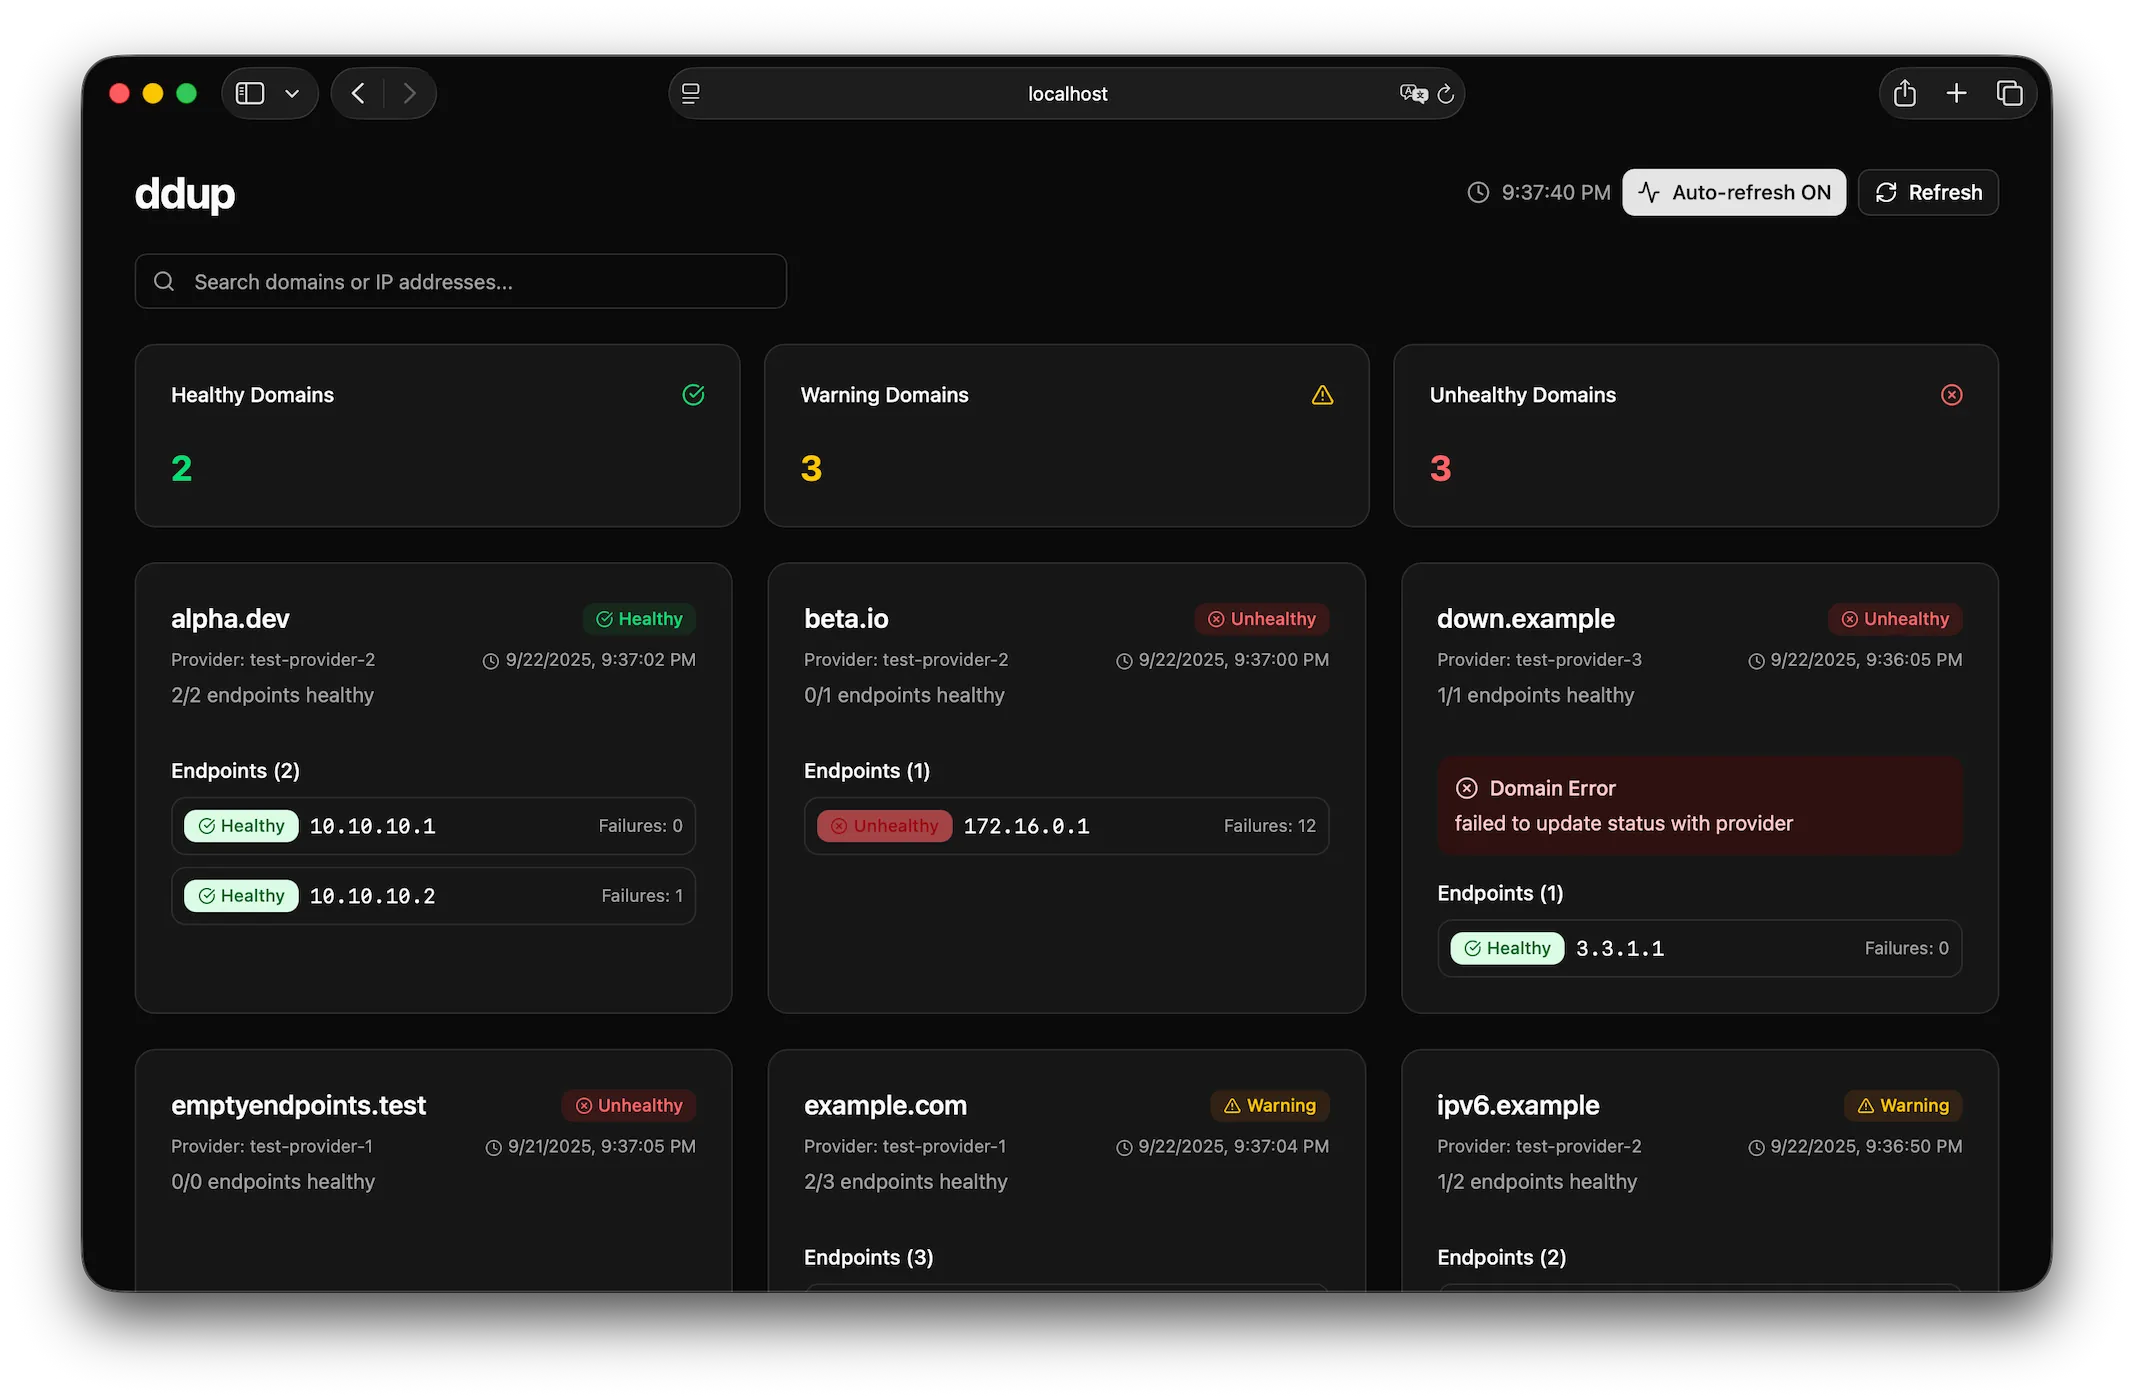
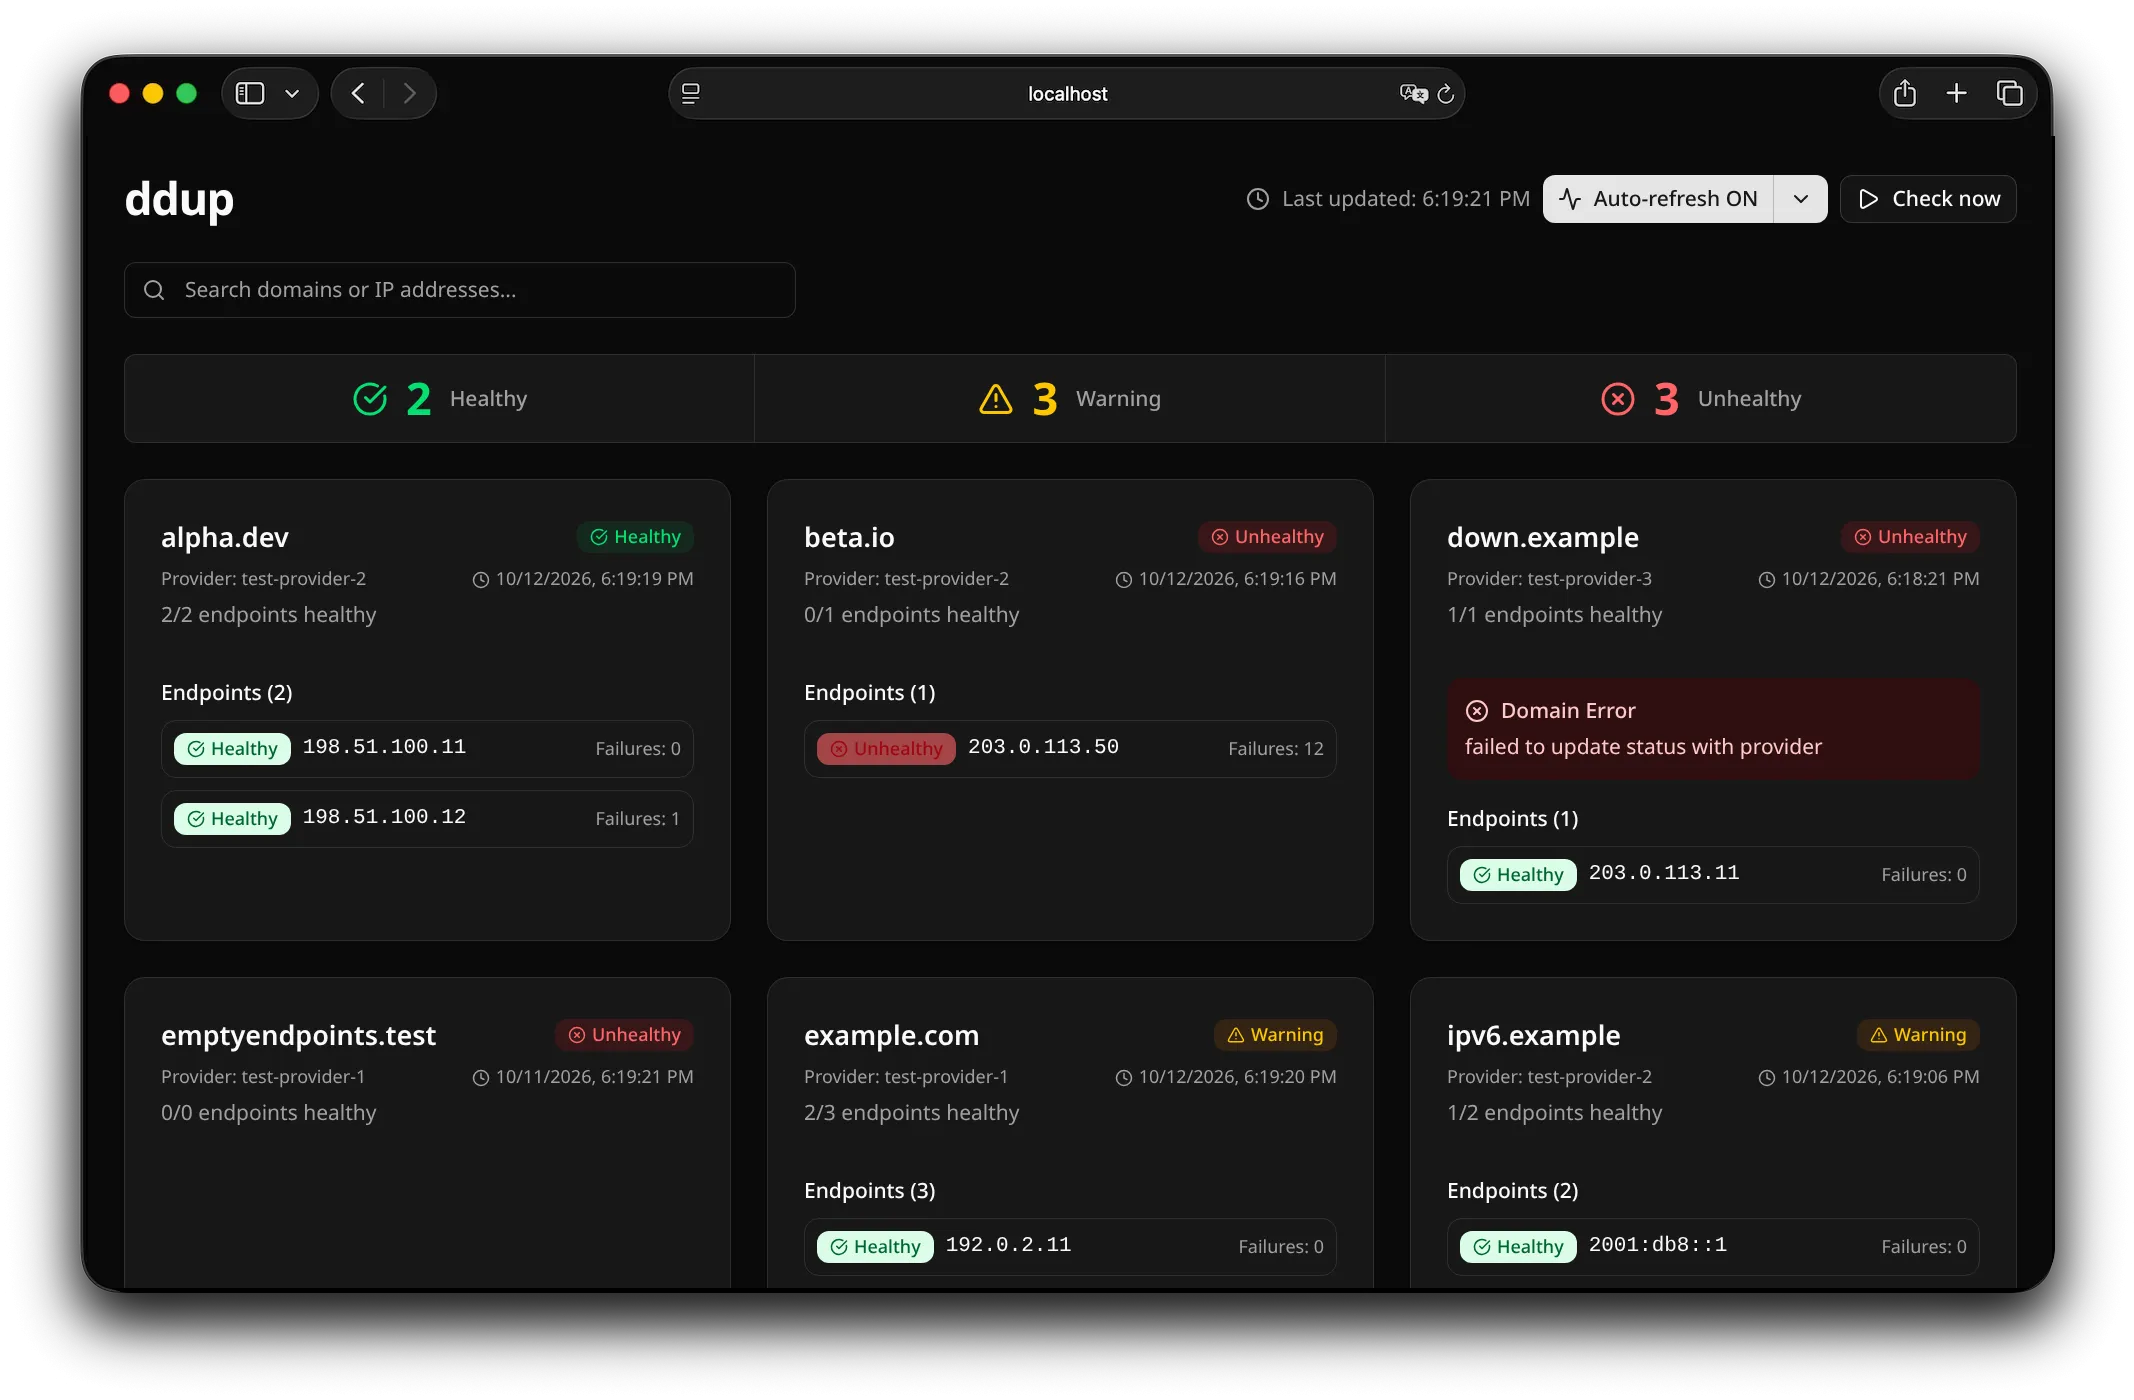
feat(dashboard): show the domain health counts as compact pills next to the search bar (#19)
* feat(dashboard): show the domain health counts as compact pills next to the search bar

The healthy, warning and unhealthy counts took three large cards, which pushed the
domains below the fold, especially on phones. They are now three compact pills on the
same row as the search bar (stacked below it on narrow screens).

Claude-Session: https://claude.ai/code/session_01KZQ9wEasB4KdXrLKSyEidD

* feat(dashboard): show the health counts as a segmented bar under the search bar

* docs: update the screenshot for the segmented health bar

---------

diff --git a/dashboard/src/components/DomainMonitorDashboard.tsx b/dashboard/src/components/DomainMonitorDashboard.tsx
@@ -13,6 +13,7 @@ import {
   Search,
   Play,
   ChevronDown,
+  type LucideIcon,
 } from 'lucide-react'
 import { cn } from '@/lib/utils'
 
@@ -35,6 +36,34 @@ type Domain = {
   name: string
   status: DomainStatus
 }
+
+// One segment of the summary bar: the count of domains with a health status
+// The label is only shown from the sm breakpoint up, and stays available to screen readers
+const SummarySegment = ({
+  icon: Icon,
+  label,
+  title,
+  count,
+  className,
+}: {
+  icon: LucideIcon
+  label: string
+  title: string
+  count: number
+  className: string
+}) => (
+  <div
+    title={title}
+    className={cn(
+      'flex items-center justify-center gap-1.5 px-1 py-1.5 sm:gap-2.5 sm:p-2.5 lg:gap-3 lg:p-3.5',
+      className
+    )}
+  >
+    <Icon className="h-4 w-4 shrink-0 sm:h-5 sm:w-5 lg:h-6 lg:w-6" aria-hidden="true" />
+    <span className="text-base leading-none font-bold sm:text-2xl lg:text-3xl">{count}</span>
+    <span className="sr-only text-[13px] font-medium text-muted-foreground sm:not-sr-only lg:text-sm">{label}</span>
+  </div>
+)
 
 const DomainMonitorDashboard = ({ endpoint }: { endpoint: string }) => {
   const [domains, setDomains] = useState<Domain[]>([])
@@ -264,8 +293,8 @@ const DomainMonitorDashboard = ({ endpoint }: { endpoint: string }) => {
           </div>
         </div>
 
-        {/* Search Bar */}
-        <div className="relative max-w-md">
+        {/* Search bar */}
+        <div className="relative w-full max-w-md">
           <Search className="absolute left-3 top-1/2 h-4 w-4 -translate-y-1/2 text-muted-foreground" />
           <input
             type="text"
@@ -275,6 +304,33 @@ const DomainMonitorDashboard = ({ endpoint }: { endpoint: string }) => {
             className="w-full rounded-md border border-input bg-background px-10 py-2 text-sm ring-offset-background placeholder:text-muted-foreground focus-visible:outline-none focus-visible:ring-2 focus-visible:ring-ring focus-visible:ring-offset-2"
           />
         </div>
+
+        {/* Summary of the domains: three equal segments in one bar */}
+        {!error && domains.length > 0 && (
+          <div className="grid grid-cols-3 divide-x overflow-hidden rounded-md border bg-card">
+            <SummarySegment
+              icon={CheckCircle}
+              label="Healthy"
+              title="Healthy domains"
+              count={healthyDomains}
+              className="text-green-600 dark:text-green-400"
+            />
+            <SummarySegment
+              icon={AlertTriangle}
+              label="Warning"
+              title="Domains with some unhealthy endpoints"
+              count={warningDomains}
+              className="text-yellow-600 dark:text-yellow-400"
+            />
+            <SummarySegment
+              icon={XCircle}
+              label="Unhealthy"
+              title="Unhealthy domains"
+              count={unhealthyDomains}
+              className="text-red-600 dark:text-red-400"
+            />
+          </div>
+        )}
 
         {/* Error Message */}
         {error && (
@@ -287,41 +343,6 @@ const DomainMonitorDashboard = ({ endpoint }: { endpoint: string }) => {
               <p className="mt-2 text-sm text-red-700 dark:text-red-300">{error}</p>
             </CardContent>
           </Card>
-        )}
-
-        {/* Stats Overview */}
-        {!error && domains.length > 0 && (
-          <div className="grid gap-4 md:grid-cols-2 lg:grid-cols-3">
-            <Card>
-              <CardHeader className="flex flex-row items-center justify-between space-y-0">
-                <CardTitle className="text-sm font-medium">Healthy Domains</CardTitle>
-                <CheckCircle className="h-4 w-4 text-green-600 dark:text-green-400" />
-              </CardHeader>
-              <CardContent>
-                <div className="text-2xl font-bold text-green-600 dark:text-green-400">{healthyDomains}</div>
-              </CardContent>
-            </Card>
-
-            <Card>
-              <CardHeader className="flex flex-row items-center justify-between space-y-0">
-                <CardTitle className="text-sm font-medium">Warning Domains</CardTitle>
-                <AlertTriangle className="h-4 w-4 text-yellow-600 dark:text-yellow-400" />
-              </CardHeader>
-              <CardContent>
-                <div className="text-2xl font-bold text-yellow-600 dark:text-yellow-400">{warningDomains}</div>
-              </CardContent>
-            </Card>
-
-            <Card>
-              <CardHeader className="flex flex-row items-center justify-between space-y-0">
-                <CardTitle className="text-sm font-medium">Unhealthy Domains</CardTitle>
-                <XCircle className="h-4 w-4 text-red-600 dark:text-red-400" />
-              </CardHeader>
-              <CardContent>
-                <div className="text-2xl font-bold text-red-600 dark:text-red-400">{unhealthyDomains}</div>
-              </CardContent>
-            </Card>
-          </div>
         )}
 
         {/* Domain Cards */}
